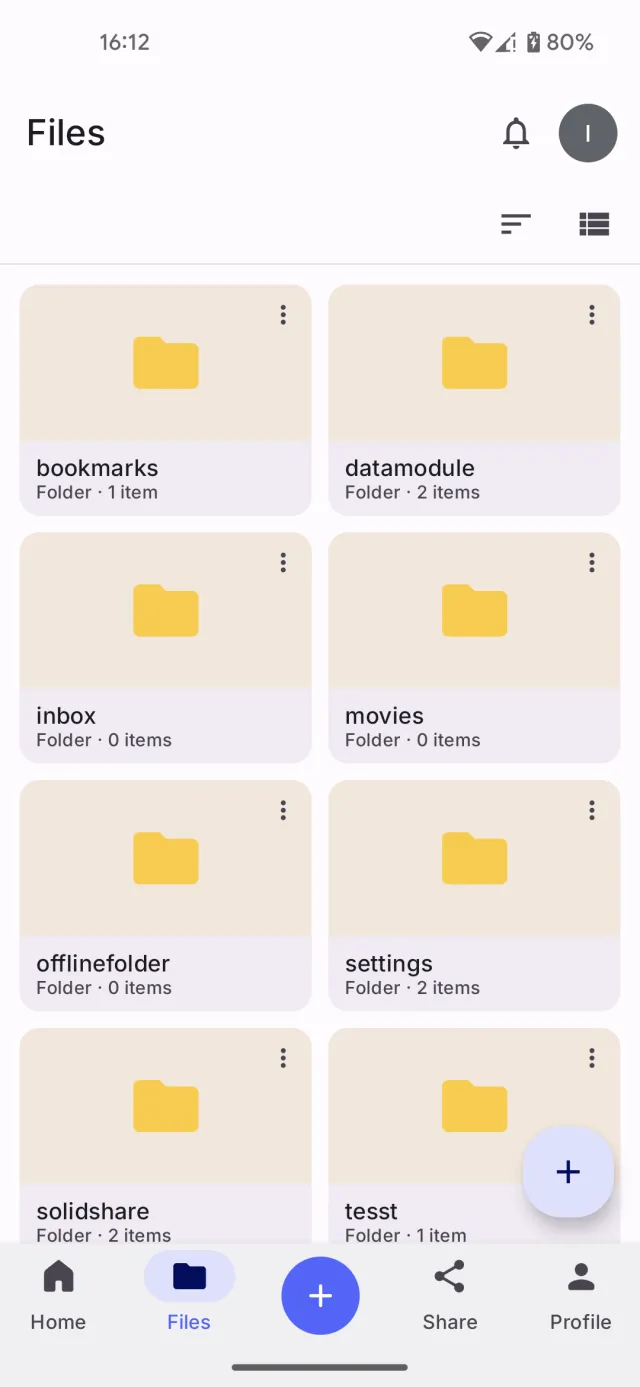
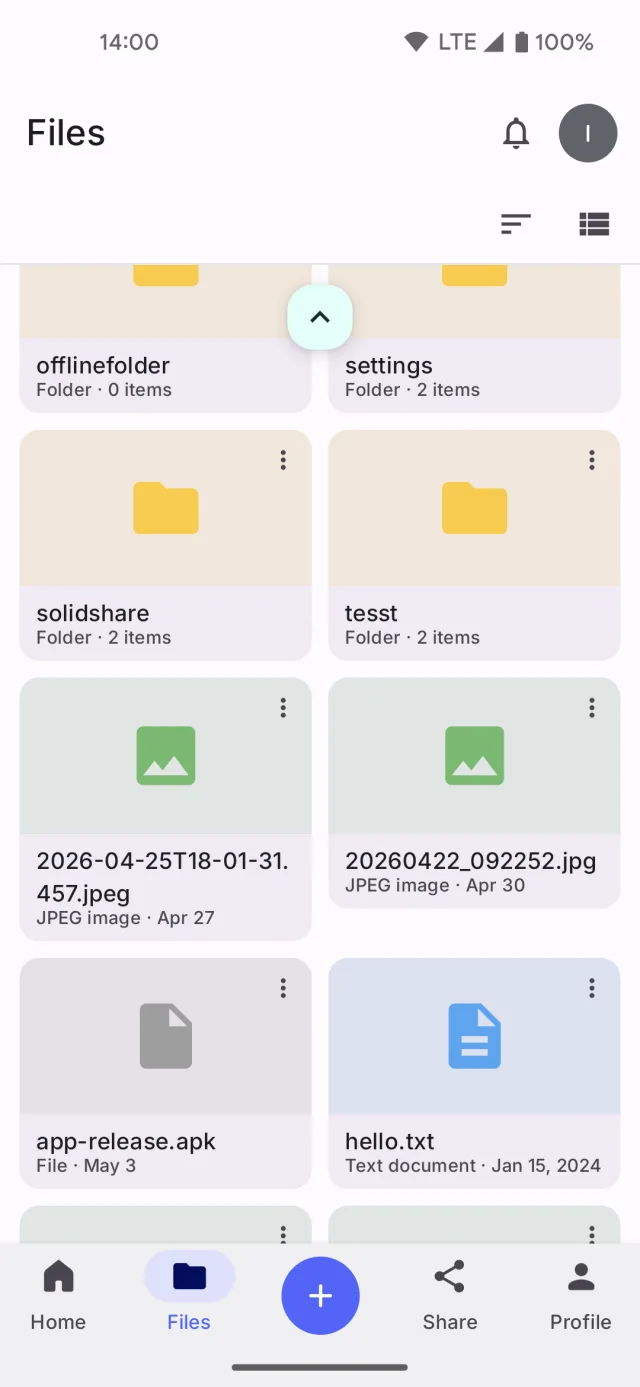
Refresh the screenshots from the 0.5.0 app, and fix the two captions they outdated

diff --git a/index.html b/index.html
@@ -133,7 +133,7 @@
           <figure class="phone phone-side phone-left">
             <img
               src="/public/shots/05_home_hub.webp"
-              alt="The Solid Share home screen, with Contacts and Wallet cards"
+              alt="The Solid Share home screen, with quick actions, the inbox row and recent files"
               width="640"
               height="1387"
               loading="eager"
@@ -256,7 +256,7 @@
               <figure class="phone phone-flat">
                 <img
                   src="/public/shots/09_files_grid.webp"
-                  alt="Files shown as a grid of thumbnails in Solid Share"
+                  alt="The Solid Share file browser in grid view, with folders and files side by side"
                   width="640" height="1387" loading="lazy" decoding="async"
                 />
               </figure>
